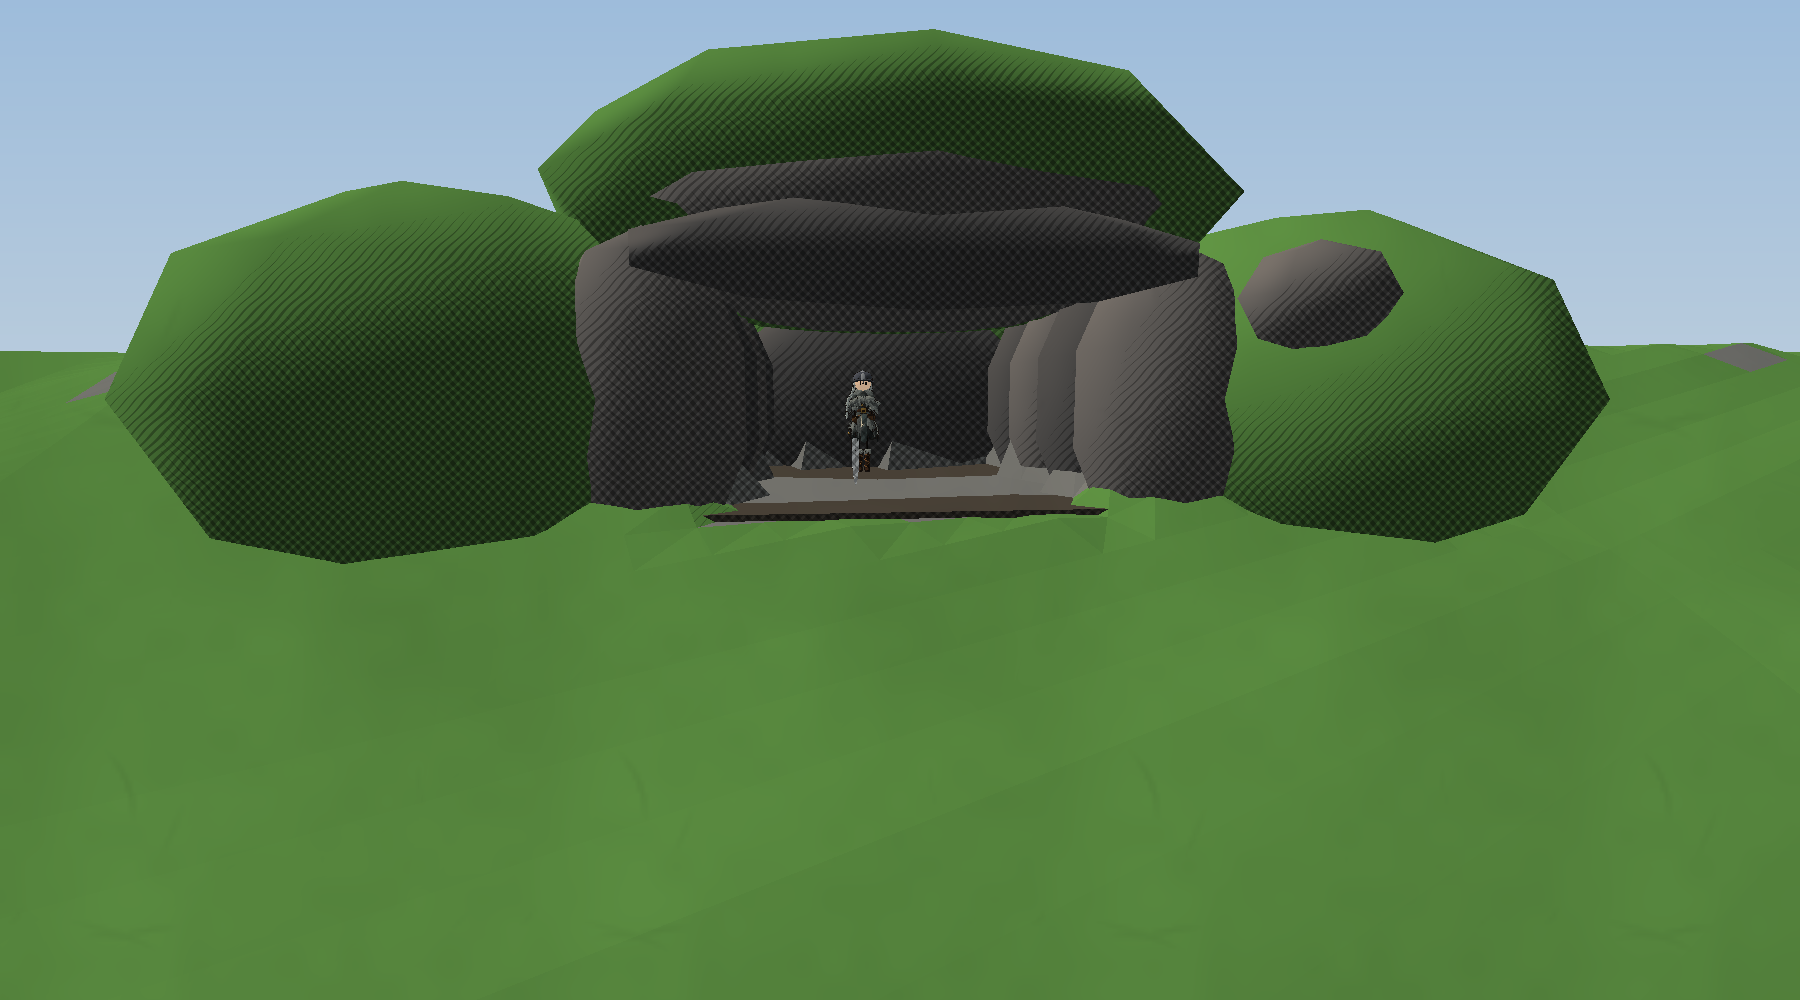
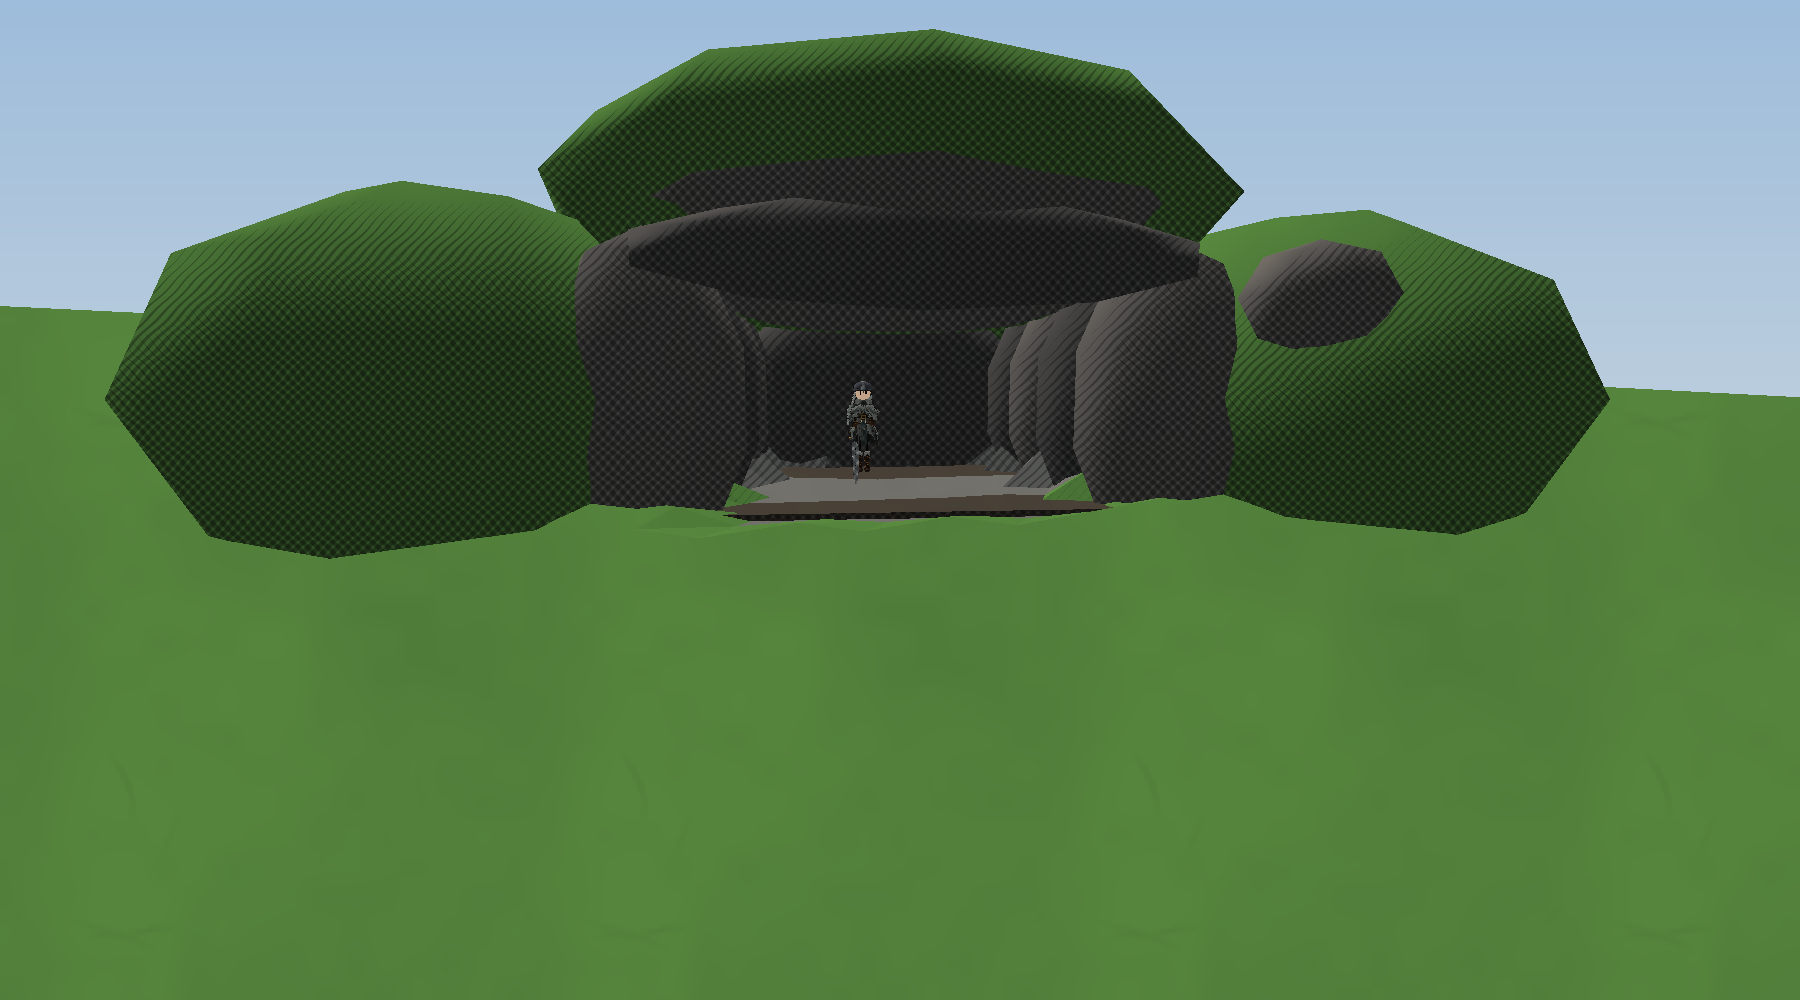
Every place gets its cave: the steepest ground found, or a howe facing the town on flat land (was 6 of 26 places)
Claude-Session: https://claude.ai/code/session_01SCdejJ1UF8RUxAkkFhZXGU

diff --git a/OdinsCoin/Assets/Scripts/World/Caves.cs b/OdinsCoin/Assets/Scripts/World/Caves.cs
@@ -4,8 +4,8 @@ using UnityEngine;
 namespace OdinsCoin
 {
     /// <summary>
-    /// A cave in the hillside near every place: a rock chamber dug into the steepest slope nearby, its mouth
-    /// facing downhill. Inside lies a gold chest, and a draugr (a dead Viking who won't lie down) guards the way
+    /// A cave in a knoll near every place: a rock chamber dug into the steepest slope nearby, its mouth facing
+    /// downhill (on flat land it's a howe, a burial mound, facing the town: where draugar keep their gold). Inside lies a gold chest, and a draugr (a dead Viking who won't lie down) guards the way
     /// in. Once the chest is taken the cave stays empty.
     /// </summary>
     public static class Caves
@@ -15,6 +15,8 @@ namespace OdinsCoin
         /// <summary>The chamber's inside: half its width, its height and its depth (m).</summary>
         public const float HalfWidth = 3f, Height = 3.6f, Depth = 8f;
         public const int MinGold = 250, MaxGold = 450;
+        /// <summary>Under this rise over 8 m (m) the ground counts as flat.</summary>
+        public const float Flat = 0.5f;
 
         /// <summary>The chambers dug into the hills: global centre of the mouth, yaw, and floor height.</summary>
         public static readonly List<Vector4> Hollows = new List<Vector4>();
@@ -46,15 +48,16 @@ namespace OdinsCoin
         }
 
         /// <summary>
-        /// Where a place's cave is (global, ground height) and which way its mouth faces (yaw, downhill): the steepest
-        /// dry slope found between <see cref="MinDistance"/> and <see cref="MaxDistance"/>, clear of the buildings.
+        /// Where a place's cave is (global, ground height) and which way its mouth faces (yaw): the steepest dry
+        /// ground found between <see cref="MinDistance"/> and <see cref="MaxDistance"/>, clear of the buildings,
+        /// facing downhill, or facing the town where the land is flat. False only if there's no dry land at all.
         /// </summary>
         public static bool Spot(Place place, List<Plot> plots, System.Func<float, float, float> height, out Vector3 spot, out float yaw)
         {
             var main = PlaceLife.MainBuilding(plots);
             var rng = new System.Random(place.name.GetHashCode() ^ 0xca7e);
             spot = Vector3.zero; yaw = 0f;
-            float best = 2.5f; // at least a 2.5 m rise over 8 m to count as a hillside
+            float best = -1f;
             for (int tries = 0; tries < 80; tries++)
             {
                 float a = (float)rng.NextDouble() * Mathf.PI * 2f, r = Mathf.Lerp(MinDistance, MaxDistance, (float)rng.NextDouble());
@@ -70,9 +73,10 @@ namespace OdinsCoin
                 if (!clear) continue;
                 best = rise;
                 spot = new Vector3(p.x, h, p.z);
-                yaw = Mathf.Atan2(-gx, -gz) * Mathf.Rad2Deg; // facing downhill
+                // Facing downhill; on the flat, facing the town.
+                yaw = rise > Flat ? Mathf.Atan2(-gx, -gz) * Mathf.Rad2Deg : Mathf.Atan2(main.at.x - p.x, main.at.z - p.z) * Mathf.Rad2Deg;
             }
-            return best > 2.5f;
+            return best >= 0f;
         }
 
         static readonly Color RockA = new Color(0.44f, 0.42f, 0.4f), RockB = new Color(0.34f, 0.33f, 0.32f), Floor = new Color(0.3f, 0.27f, 0.23f);

diff --git a/tools/tests/LogicTests.cs b/tools/tests/LogicTests.cs
@@ -372,7 +372,10 @@ public static class LogicTests
             Vector3 cave; float caveYaw;
             bool found = Caves.Spot(new Place { name = "Cavetown", kind = PlaceKind.Hall }, cavePlots, hillside, out cave, out caveYaw);
             Check(found && cave.z > 300f && Mathf.Abs(Mathf.DeltaAngle(caveYaw, 180f)) < 20f, "a cave is dug into the hillside with its mouth facing downhill (" + caveYaw.ToString("0") + "°)");
-            Check(!Caves.Spot(new Place { name = "Flatland", kind = PlaceKind.Hall }, cavePlots, (x, z) => 3f, out cave, out caveYaw), "no cave on flat ground");
+            bool howe = Caves.Spot(new Place { name = "Flatland", kind = PlaceKind.Hall }, cavePlots, (x, z) => 3f, out cave, out caveYaw);
+            float toTown = Mathf.Atan2(-cave.x, -cave.z) * Mathf.Rad2Deg;
+            Check(howe && Mathf.Abs(Mathf.DeltaAngle(caveYaw, toTown)) < 1f, "on flat ground the cave is a howe, its mouth facing the town");
+            Check(!Caves.Spot(new Place { name = "Sea", kind = PlaceKind.Hall }, cavePlots, (x, z) => -5f, out cave, out caveYaw), "no cave where there's no dry land");
             Caves.Hollows.Clear();
             Caves.Hollows.Add(new Vector4(0f, 0f, 0f, 5f));
             Check(Caves.Hollow(0, -4, 12f) < 5f && Caves.Hollow(0, 5, 12f) == 12f && Caves.Hollow(10, -4, 12f) == 12f, "the hill is dug out inside the chamber and nowhere else");

diff --git a/OdinsCoin/Assets/Scripts/World/Rumours.cs b/OdinsCoin/Assets/Scripts/World/Rumours.cs
@@ -61,7 +61,7 @@ namespace OdinsCoin
                 if (!dug.Contains(p.name))
                     options.Add(new Rumour { kind = Kind.Hoard, place = p, text = "My grandfather swore there's a hoard buried out beyond the houses at " + p.name + ", under a cairn. " + Capital(where) + "." });
                 if (caves != null && !caves.Contains(p.name))
-                    options.Add(new Rumour { kind = Kind.Cave, place = p, text = "There's a cave in the hills behind " + p.name + ". Something dead guards it, and it guards gold. " + Capital(where) + "." });
+                    options.Add(new Rumour { kind = Kind.Cave, place = p, text = "There's a cave dug into a knoll out past " + p.name + ". Something dead guards it, and it guards gold. " + Capital(where) + "." });
                 if (!shrines.Contains(p.name))
                     options.Add(new Rumour { kind = Kind.RuneRing, place = p, text = "The rune ring by the " + LandmarkWord(Landmarks.KindFor(p)) + " at " + p.name + " still sleeps. Count the notches. " + Capital(where) + "." });
             }

diff --git a/tools/preview/HeroPreview.cs b/tools/preview/HeroPreview.cs
@@ -605,12 +605,12 @@ public static class HeroPreview
         Render(helm, w, h, 0, w, h, new Shot { model = m, pose = pose, perspective = true, eye = helmEye, yaw = jetty.yaw, pitch = 6f, fov = 75f });
         WriteRgba(rgbaPath + ".helm", helm, w, h);
 
-        // A cave (the first place, Bergen first, whose hills have one), with the land drawn as the game draws it
+        // A cave (Bjørgvin's, in the hills over Bergen), with the land drawn as the game draws it
         // (its 25 m squares, refined round the chamber), seen from a few steps in front of the mouth.
         Vector3 caveAt = Vector3.zero; float caveYaw = 0f;
         Place cavePlace = null;
         var candidates = new List<Place>();
-        var bergenPlace = Places.Find("Bergen");
+        var bergenPlace = Places.Find("Bjørgvin");
         if (bergenPlace != null) candidates.Add(bergenPlace);
         candidates.AddRange(Places.All);
         foreach (var cand in candidates)

diff --git a/OdinsCoin/ROADMAP.md b/OdinsCoin/ROADMAP.md
@@ -34,5 +34,5 @@ Sea of Thieves med vikinger og Zelda-utforsking, enkelt og artig. Gamblingen er 
 - [x] **18. Runeringer (`World/RuneShrines.cs`):** rundt hvert landemerke står en ring av fem små steiner hugget med 1 til 5 hakk. Rør dem i rekkefølge etter hakkene, så våkner ringen og gir sin gave. Rører du feil stein, blir alle mørke igjen. Gavene er Vitalitetens rune (+15 helse), Utholdenhetens rune (mer pust til klatring og svømming) og Hellets rune (+2 % bedre odds ved alteret, maks 60 %). Lagres.
 - [x] **19. Klatring og utholdenhet (`Player/StaminaRules.cs`):** gå mot en bratt klippe og hold W, så klatrer du opp i 1,6 m/s til pusten tar slutt. Over kanten får du et lite hopp opp. Sprint og hard svømming tar også pust. Går du tom, blir du sliten og må hente deg inn før du kan klatre eller sprinte igjen. På beina kommer pusten tilbake på noen sekunder. En grønn linje under siktet viser pusten, og den blir rød når du er sliten. Utholdenhetens rune gir 3 sekunder ekstra.
 - [x] **20. Nedgravde skatter og skattekart (`World/Hoards.cs`, `World/HoardGuide.cs`):** hvert sted har en skatt gravd ned 350–800 m ute, merket med en varde og et kryss i torva. Trykk E ved varden for å grave opp en sølvkiste (150–300 gull). Omtrent hver tredje kiste du plyndrer har et kart til nærmeste skatt som ikke er gravd opp. Kartet setter et kryss på sjøkartet og viser avstand og retning på HUD-en, og en ravn sirkler over varden når du er innen 2 km. Lagres.
-- [x] **20b. Grotter (`World/Caves.cs`):** ved hvert sted er det gravd en grotte inn i den bratteste bakken i nærheten, med åpningen ned mot dalen. Inne ligger en gullkiste (250–450 gull), og en draug (en død viking i grått) vokter inngangen. Bakken inne i grotta er gravd ut (terrengrutene rundt grotta tegnes i 1 m ruter i stedet for 25 m, så kammeret faktisk synes), og en tømt grotte forblir tom. Ryktene kan handle om grotter.
+- [x] **20b. Grotter (`World/Caves.cs`):** ved hvert sted er det gravd en grotte inn i den bratteste bakken i nærheten, med åpningen ned mot dalen (på flatt land blir den en gravhaug med åpningen mot byen, der draugen holder til; før fikk bare 6 av 26 steder en grotte, nå får alle). Inne ligger en gullkiste (250–450 gull), og en draug (en død viking i grått) vokter inngangen. Bakken inne i grotta er gravd ut (terrengrutene rundt grotta tegnes i 1 m ruter i stedet for 25 m, så kammeret faktisk synes), og en tømt grotte forblir tom. Ryktene kan handle om grotter.
 - [x] **21. Rykter i stedet for oppdragsliste (`World/Rumours.cs`):** trykk E ved en innbygger for å høre et rykte om et rikt sted som ikke er plyndret, en nedgravd skatt eller en runering som sover. Ryktet sier omtrent hvor langt og i hvilken retning («half a day's sail to the south-west»), men setter ingen markør. Nærmere steder nevnes oftere, og ingen rykter handler om stedet du står på eller det du allerede har tatt. Innbyggeren stopper og snur seg mot deg mens du snakker. Bjørns oppdrag i methallen finnes fortsatt.
